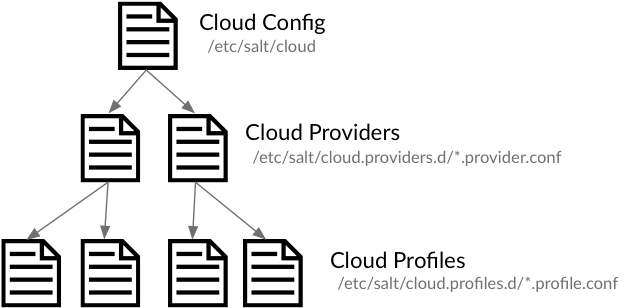
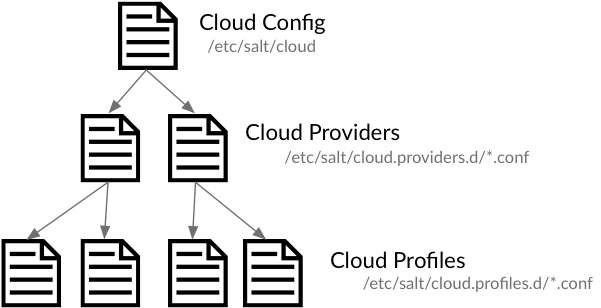
Made udpates as suggested by @rallytime

diff --git a/doc/topics/cloud/qs.rst b/doc/topics/cloud/qs.rst
@@ -4,26 +4,32 @@
 Salt Cloud Quickstart
 =====================
 
-Salt Cloud is built-in to Salt and is configured on and executed from your Salt
-Master. On some platforms, Salt Cloud is installed by the ``salt-cloud``
-package.
+Salt Cloud is built-in to Salt, and the easiest way to run Salt Cloud is
+directly from your Salt Master. On most platforms you can install the
+``salt-cloud`` package from the same repo that you used to install Salt.
 
 This quickstart walks you through the basic steps of setting up a cloud host
 and defining some virtual machines to create.
 
+.. note:: Salt Cloud has its own process and does not rely on the Salt Master,
+   so it can be installed on a standalone minion instead of your Salt Master.
+
 Define a Provider
 -----------------
-The first step is to add the credentials for your cloud host. Credentials
-and other settings provided by the cloud host are stored in provider configuration files.
-Provider configurations contain the details needed to connect to a cloud host such as EC2, GCE, Rackspace, etc.,
-and any global options that you want set on your cloud minions (such as the location of your Salt Master).
+The first step is to add the credentials for your cloud host. Credentials and
+other settings provided by the cloud host are stored in provider configuration
+files. Provider configurations contain the details needed to connect to a cloud
+host such as EC2, GCE, Rackspace, etc., and any global options that you want
+set on your cloud minions (such as the location of your Salt Master).
 
-On your Salt Master, browse to ``/etc/salt/cloud.providers.d/`` and create a file called ``<provider>.provider.conf``,
-replacing ``<provider>`` with ``ec2``, ``softlayer``, and so on. The name helps you identify the contents, and is not
-important as long as the file ends in ``.conf``.
+On your Salt Master, browse to ``/etc/salt/cloud.providers.d/`` and create
+a file called ``<provider>.conf``, replacing ``<provider>`` with
+``ec2``, ``softlayer``, and so on. The name helps you identify the contents,
+and is not important as long as the file ends in ``.conf``.
 
-Next, browse to the :ref:`Provider specifics <cloud-provider-specifics>` and add any required settings for your
-cloud host to this file. Here is an example for Amazon EC2:
+Next, browse to the :ref:`Provider specifics <cloud-provider-specifics>` and
+add any required settings for your cloud host to this file. Here is an example
+for Amazon EC2:
 
 .. code-block:: yaml
 
@@ -43,7 +49,8 @@ cloud host to this file. Here is an example for Amazon EC2:
       minion:
         master: saltmaster.example.com
 
-The required configuration varies between cloud hosts so make sure you read the provider specifics.
+The required configuration varies between cloud hosts so make sure you read the
+provider specifics.
 
 List Cloud Provider Options
 ---------------------------
@@ -60,10 +67,12 @@ Replace ``<provider_name>`` with the name of the provider configuration you defi
 
 Create VM Profiles
 ------------------
-On your Salt Master, browse to ``/etc/salt/cloud.profiles.d/`` and create a file called ``<provider>.profiles.conf``,
-replacing ``<provider>`` with ``ec2``, ``softlayer``, and so on. The file must end in ``.conf``.
+On your Salt Master, browse to ``/etc/salt/cloud.profiles.d/`` and create
+a file called ``<profile>.conf``, replacing ``<profile>`` with
+``ec2``, ``softlayer``, and so on. The file must end in ``.conf``.
 
-You can now add any custom profiles you'd like to define to this file. Here are a few examples:
+You can now add any custom profiles you'd like to define to this file. Here are
+a few examples:
 
 .. code-block:: yaml
 
@@ -82,8 +91,9 @@ You can now add any custom profiles you'd like to define to this file. Here are 
       image: ami-d514f291
       size: m3.large
 
-Notice that the ``provider`` in our profile matches the provider name that we defined? That is how Salt Cloud
-knows how to connect to create a VM with these attributes.
+Notice that the ``provider`` in our profile matches the provider name that we
+defined? That is how Salt Cloud knows how to connect to to a cloud host to
+create a VM with these attributes.
 
 Create VMs
 ----------

diff --git a/doc/topics/cloud/index.rst b/doc/topics/cloud/index.rst
@@ -20,19 +20,22 @@ is done using the following YAML configuration files:
   that apply to all cloud hosts. See :ref:`Salt Cloud Configuration
   <salt-cloud-config>`.
 
-- ``/etc/salt/cloud.providers.d/*.provider.conf``: Contains settings that
-  configure a specific cloud host, such as credentials, region settings, and so
-  on. Since configuration varies significantly between each cloud host,
-  a separate file is created for each cloud host. In Salt Cloud, a provider is
+- ``/etc/salt/cloud.providers.d/*.conf``: Contains settings that configure
+  a specific cloud host, such as credentials, region settings, and so on. Since
+  configuration varies significantly between each cloud host, a separate file
+  should be created for each cloud host. In Salt Cloud, a provider is
   synonymous with a cloud host (Amazon EC2, Google Compute Engine, Rackspace,
   and so on).  See :ref:`Provider Specifics <cloud-provider-specifics>`.
 
-- ``/etc/salt/cloud.profiles.d/*.profile.conf``: Contains settings that define
-  a specific VM type. Each profile specifies a parent provider that defines the
-  cloud host in which the VM is created. A profile defines the system type and
-  image, and any other settings that are specific to this VM type. Based on
-  your needs, you might define different profiles for web servers, database
-  servers, and so on. See :ref:`VM Profiles <cloud-provider-specifics>`.
+- ``/etc/salt/cloud.profiles.d/*.conf``: Contains settings that define
+  a specific VM type. A profile defines the systems specs and image, and any
+  other settings that are specific to this VM type. Each specific VM type is
+  called a profile, and multiple profiles can be defined in a profile file.
+  Each profile references a parent provider that defines the cloud host in
+  which the VM is created (the provider settings are in the provider
+  configuration explained above).  Based on your needs, you might define
+  different profiles for web servers, database servers, and so on. See :ref:`VM
+  Profiles <cloud-provider-specifics>`.
 
 Configuration Inheritance
 =========================
